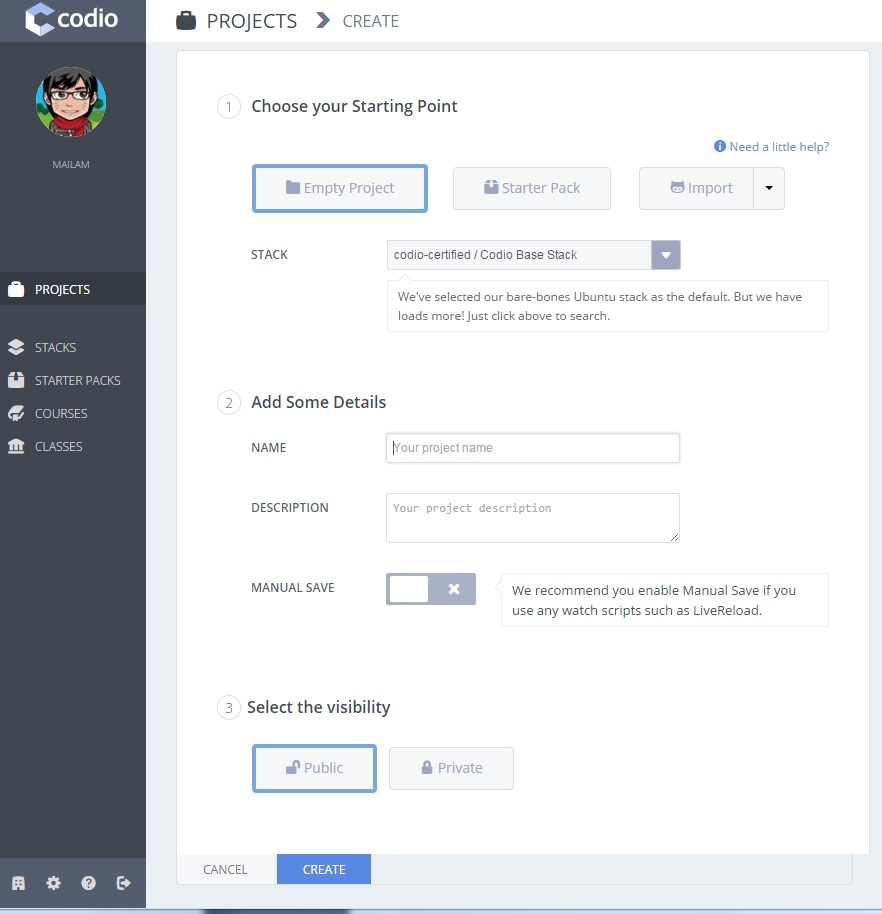
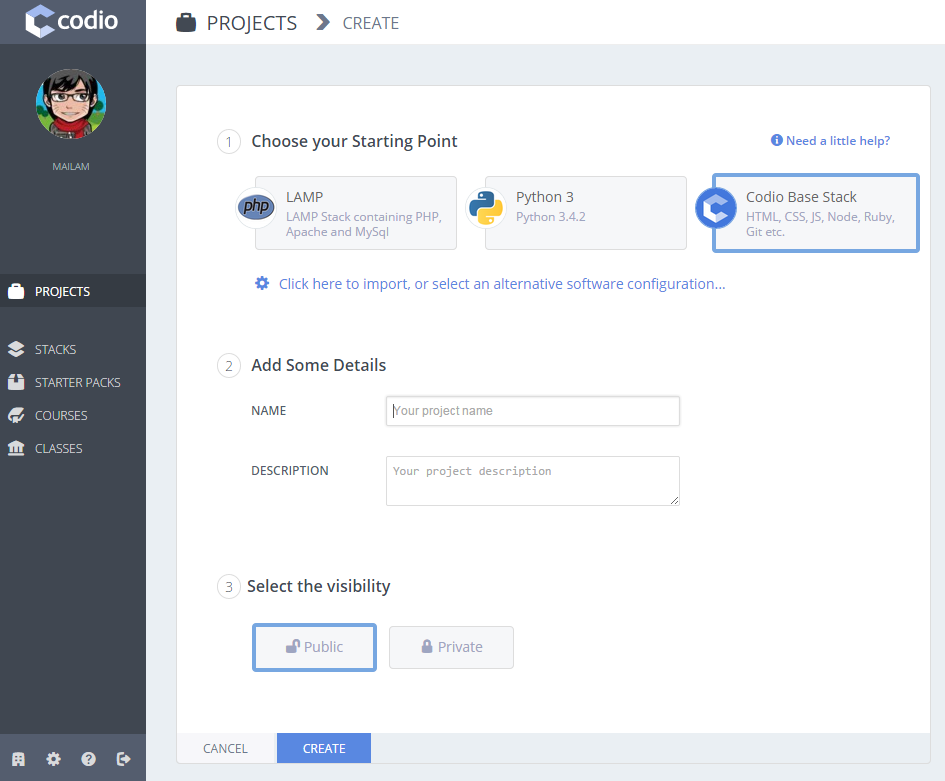
update create project

diff --git a/source/docs/dashboard/changelog.html.md b/source/docs/dashboard/changelog.html.md
@@ -7,6 +7,12 @@ full_width: true
 This page contains a list of recent updates made to the Codio platform. We update Codio regularly, sometimes several times a day, so this page should provide information to help you figure out what we have changed.
 
 We do not report small bug fixes or issues that affect individual users, who we will notify directly.
+
+### March 31st, 2015
+- **Improvement**: improve autosave handling
+- **Improvement**: improve create project starting point options
+- **Improvement**: Guides update to remember poistion in guides if project reloaded
+
 ### March 19th, 2015
 - **Improvement**: add stack support to course modules
 
